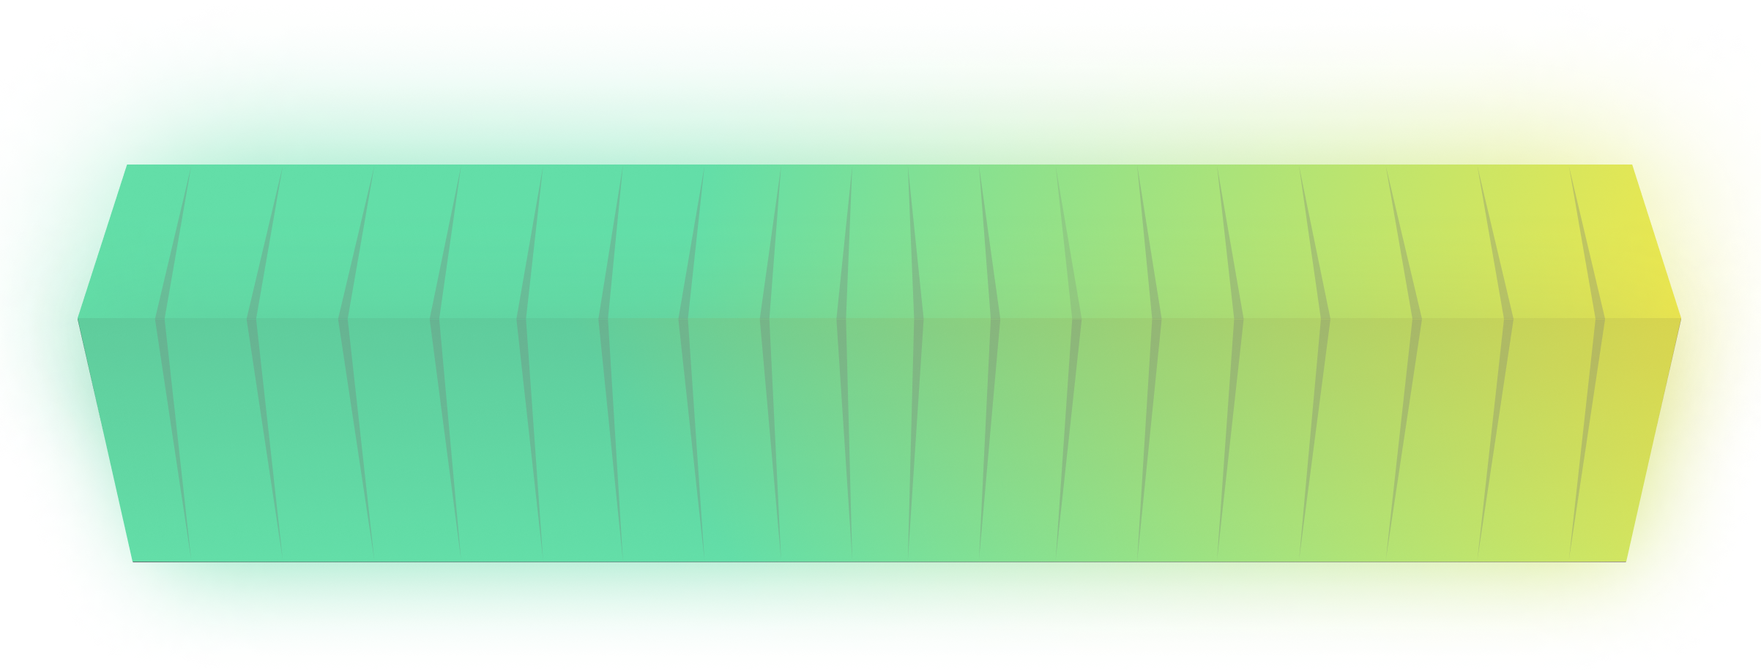
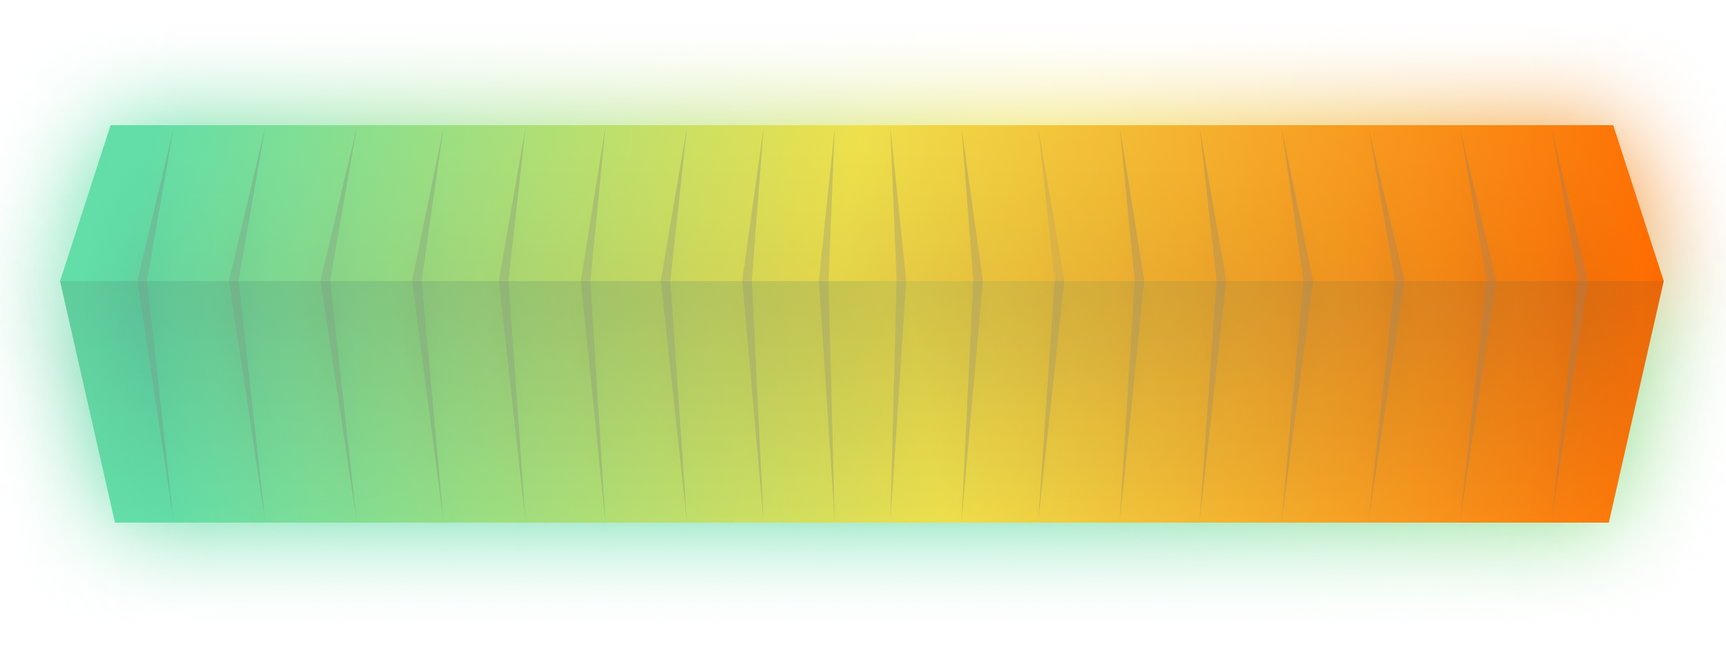
add menu btn and update progress bar

diff --git a/public/env.js b/public/env.js
@@ -1,67 +1,93 @@
 window.env = {
-  "MANPATH": "/opt/homebrew/share/man:/usr/share/man:/usr/local/share/man:/opt/homebrew/share/man::",
-  "TERM_PROGRAM": "vscode",
-  "NODE": "/usr/local/bin/node",
-  "INIT_CWD": "/Users/mykolaperebenesuk/Documents/Work/Frontend/cybersays-frontend",
-  "TERM": "xterm-256color",
-  "SHELL": "/bin/zsh",
-  "npm_config_metrics_registry": "https://registry.npmjs.org/",
-  "HOMEBREW_REPOSITORY": "/opt/homebrew",
-  "TMPDIR": "/var/folders/v6/pmrfgb2j3hv1wwgdkm8kz12r0000gn/T/",
-  "npm_config_global_prefix": "/usr/local",
-  "TERM_PROGRAM_VERSION": "1.82.2",
-  "ZDOTDIR": "/Users/mykolaperebenesuk",
-  "ORIGINAL_XDG_CURRENT_DESKTOP": "undefined",
-  "MallocNanoZone": "0",
+  "ACSetupSvcPort": "23210",
+  "ACSvcPort": "17532",
+  "ALLUSERSPROFILE": "C:\\ProgramData",
+  "APPDATA": "C:\\Users\\danie\\AppData\\Roaming",
+  "CHROME_CRASHPAD_PIPE_NAME": "\\\\.\\pipe\\crashpad_13504_TXQRPBMYUAOTFDAB",
   "COLOR": "1",
-  "npm_config_noproxy": "",
-  "npm_config_local_prefix": "/Users/mykolaperebenesuk/Documents/Work/Frontend/cybersays-frontend",
-  "USER": "mykolaperebenesuk",
-  "COMMAND_MODE": "unix2003",
-  "npm_config_globalconfig": "/usr/local/etc/npmrc",
-  "SSH_AUTH_SOCK": "/private/tmp/com.apple.launchd.UWBnfdlKjG/Listeners",
-  "__CF_USER_TEXT_ENCODING": "0x1F5:0x7:0x3E",
-  "npm_execpath": "/usr/local/lib/node_modules/npm/bin/npm-cli.js",
-  "PATH": "/Users/mykolaperebenesuk/Documents/Work/Frontend/cybersays-frontend/node_modules/.bin:/Users/mykolaperebenesuk/Documents/Work/Frontend/node_modules/.bin:/Users/mykolaperebenesuk/Documents/Work/node_modules/.bin:/Users/mykolaperebenesuk/Documents/node_modules/.bin:/Users/mykolaperebenesuk/node_modules/.bin:/Users/node_modules/.bin:/node_modules/.bin:/usr/local/lib/node_modules/npm/node_modules/@npmcli/run-script/lib/node-gyp-bin:/opt/homebrew/bin:/opt/homebrew/sbin:/usr/local/bin:/System/Cryptexes/App/usr/bin:/usr/bin:/bin:/usr/sbin:/sbin:/var/run/com.apple.security.cryptexd/codex.system/bootstrap/usr/local/bin:/var/run/com.apple.security.cryptexd/codex.system/bootstrap/usr/bin:/var/run/com.apple.security.cryptexd/codex.system/bootstrap/usr/appleinternal/bin:/Library/Apple/usr/bin:/opt/homebrew/bin:/opt/homebrew/sbin",
-  "npm_package_json": "/Users/mykolaperebenesuk/Documents/Work/Frontend/cybersays-frontend/package.json",
-  "_": "/Users/mykolaperebenesuk/Documents/Work/Frontend/cybersays-frontend/node_modules/.bin/react-dotenv",
-  "npm_config_userconfig": "/Users/mykolaperebenesuk/.npmrc",
-  "npm_config_init_module": "/Users/mykolaperebenesuk/.npm-init.js",
-  "USER_ZDOTDIR": "/Users/mykolaperebenesuk",
-  "__CFBundleIdentifier": "com.microsoft.VSCode",
-  "npm_command": "start",
-  "PWD": "/Users/mykolaperebenesuk/Documents/Work/Frontend/cybersays-frontend",
-  "npm_lifecycle_event": "start",
-  "EDITOR": "vi",
-  "npm_package_name": "cybersays-frontend",
-  "LANG": "en_US.UTF-8",
-  "npm_config_npm_version": "9.8.1",
-  "VSCODE_GIT_ASKPASS_EXTRA_ARGS": "--ms-enable-electron-run-as-node",
-  "XPC_FLAGS": "0x0",
-  "npm_config_node_gyp": "/usr/local/lib/node_modules/npm/node_modules/node-gyp/bin/node-gyp.js",
-  "npm_package_version": "0.1.0",
-  "XPC_SERVICE_NAME": "0",
-  "VSCODE_INJECTION": "1",
-  "SHLVL": "2",
-  "HOME": "/Users/mykolaperebenesuk",
-  "VSCODE_GIT_ASKPASS_MAIN": "/private/var/folders/v6/pmrfgb2j3hv1wwgdkm8kz12r0000gn/T/AppTranslocation/FD908547-6737-4C11-BF78-733CFE6EB2A4/d/Visual Studio Code.app/Contents/Resources/app/extensions/git/dist/askpass-main.js",
-  "HOMEBREW_PREFIX": "/opt/homebrew",
-  "npm_config_cache": "/Users/mykolaperebenesuk/.npm",
-  "LOGNAME": "mykolaperebenesuk",
-  "npm_lifecycle_script": "react-dotenv && react-scripts start",
-  "VSCODE_GIT_IPC_HANDLE": "/var/folders/v6/pmrfgb2j3hv1wwgdkm8kz12r0000gn/T/vscode-git-481a754d4d.sock",
-  "npm_config_user_agent": "npm/9.8.1 node/v18.18.2 darwin arm64 workspaces/false",
-  "VSCODE_GIT_ASKPASS_NODE": "/private/var/folders/v6/pmrfgb2j3hv1wwgdkm8kz12r0000gn/T/AppTranslocation/FD908547-6737-4C11-BF78-733CFE6EB2A4/d/Visual Studio Code.app/Contents/Frameworks/Code Helper (Plugin).app/Contents/MacOS/Code Helper (Plugin)",
-  "GIT_ASKPASS": "/private/var/folders/v6/pmrfgb2j3hv1wwgdkm8kz12r0000gn/T/AppTranslocation/FD908547-6737-4C11-BF78-733CFE6EB2A4/d/Visual Studio Code.app/Contents/Resources/app/extensions/git/dist/askpass.sh",
-  "INFOPATH": "/opt/homebrew/share/info:/opt/homebrew/share/info:",
-  "HOMEBREW_CELLAR": "/opt/homebrew/Cellar",
-  "npm_node_execpath": "/usr/local/bin/node",
-  "npm_config_prefix": "/usr/local",
   "COLORTERM": "truecolor",
+  "CommonProgramFiles": "C:\\Program Files\\Common Files",
+  "CommonProgramFiles(x86)": "C:\\Program Files (x86)\\Common Files",
+  "CommonProgramW6432": "C:\\Program Files\\Common Files",
+  "COMPUTERNAME": "DANICHOK",
+  "ComSpec": "C:\\WINDOWS\\system32\\cmd.exe",
+  "DriverData": "C:\\Windows\\System32\\Drivers\\DriverData",
+  "EDITOR": "C:\\WINDOWS\\notepad.exe",
+  "EFC_6472": "1",
+  "FPS_BROWSER_APP_PROFILE_STRING": "Internet Explorer",
+  "FPS_BROWSER_USER_PROFILE_STRING": "Default",
+  "GIT_ASKPASS": "c:\\Users\\danie\\AppData\\Local\\Programs\\Microsoft VS Code\\resources\\app\\extensions\\git\\dist\\askpass.sh",
+  "HOME": "C:\\Users\\danie",
+  "HOMEDRIVE": "C:",
+  "HOMEPATH": "\\Users\\danie",
+  "INIT_CWD": "J:\\React App\\Ron Folder\\cybersays",
+  "LANG": "en_US.UTF-8",
+  "LOCALAPPDATA": "C:\\Users\\danie\\AppData\\Local",
+  "LOGONSERVER": "\\\\DANICHOK",
+  "NODE": "C:\\Program Files\\nodejs\\node.exe",
+  "NODE_EXE": "C:\\Program Files\\nodejs\\\\node.exe",
+  "NPM_CLI_JS": "C:\\Program Files\\nodejs\\\\node_modules\\npm\\bin\\npm-cli.js",
+  "npm_command": "start",
+  "npm_config_cache": "C:\\Users\\danie\\AppData\\Local\\npm-cache",
+  "npm_config_globalconfig": "C:\\Users\\danie\\AppData\\Roaming\\npm\\etc\\npmrc",
+  "npm_config_global_prefix": "C:\\Users\\danie\\AppData\\Roaming\\npm",
+  "npm_config_init_module": "C:\\Users\\danie\\.npm-init.js",
+  "npm_config_local_prefix": "J:\\React App\\Ron Folder\\cybersays",
+  "npm_config_metrics_registry": "https://registry.npmjs.org/",
+  "npm_config_node_gyp": "C:\\Program Files\\nodejs\\node_modules\\npm\\node_modules\\node-gyp\\bin\\node-gyp.js",
+  "npm_config_noproxy": "",
+  "npm_config_prefix": "C:\\Users\\danie\\AppData\\Roaming\\npm",
+  "npm_config_userconfig": "C:\\Users\\danie\\.npmrc",
+  "npm_config_user_agent": "npm/9.5.1 node/v18.16.0 win32 x64 workspaces/false",
+  "npm_execpath": "C:\\Program Files\\nodejs\\node_modules\\npm\\bin\\npm-cli.js",
+  "npm_lifecycle_event": "start",
+  "npm_lifecycle_script": "react-dotenv && react-scripts start",
+  "npm_node_execpath": "C:\\Program Files\\nodejs\\node.exe",
+  "npm_package_json": "J:\\React App\\Ron Folder\\cybersays\\package.json",
+  "npm_package_name": "cybersays-frontend",
+  "npm_package_version": "0.1.0",
+  "NPM_PREFIX_NPM_CLI_JS": "C:\\Users\\danie\\AppData\\Roaming\\npm\\node_modules\\npm\\bin\\npm-cli.js",
+  "NUMBER_OF_PROCESSORS": "12",
+  "OneDrive": "C:\\Users\\danie\\OneDrive",
+  "ORIGINAL_XDG_CURRENT_DESKTOP": "undefined",
+  "OS": "Windows_NT",
+  "Path": "J:\\React App\\Ron Folder\\cybersays\\node_modules\\.bin;J:\\React App\\Ron Folder\\node_modules\\.bin;J:\\React App\\node_modules\\.bin;J:\\node_modules\\.bin;C:\\Program Files\\nodejs\\node_modules\\npm\\node_modules\\@npmcli\\run-script\\lib\\node-gyp-bin;C:\\ProgramData\\Oracle\\Java\\javapath;C:\\WINDOWS\\system32;C:\\WINDOWS;C:\\WINDOWS\\System32\\Wbem;C:\\WINDOWS\\System32\\WindowsPowerShell\\v1.0\\;C:\\WINDOWS\\System32\\OpenSSH\\;C:\\Program Files\\nodejs\\;C:\\Program Files\\NVIDIA Corporation\\NVIDIA NvDLISR;C:\\Program Files\\dotnet\\;C:\\Program Files\\Git\\cmd;C:\\Program Files (x86)\\NVIDIA Corporation\\PhysX\\Common;C:\\Users\\danie\\AppData\\Local\\Microsoft\\WindowsApps;C:\\Users\\danie\\AppData\\Local\\Programs\\Microsoft VS Code\\bin;C:\\Users\\danie\\AppData\\Roaming\\npm;C:\\Users\\danie\\AppData\\Local\\GitHubDesktop\\bin",
+  "PATHEXT": ".COM;.EXE;.BAT;.CMD;.VBS;.VBE;.JS;.JSE;.WSF;.WSH;.MSC;.CPL",
+  "PROCESSOR_ARCHITECTURE": "AMD64",
+  "PROCESSOR_IDENTIFIER": "Intel64 Family 6 Model 151 Stepping 2, GenuineIntel",
+  "PROCESSOR_LEVEL": "6",
+  "PROCESSOR_REVISION": "9702",
+  "ProgramData": "C:\\ProgramData",
+  "ProgramFiles": "C:\\Program Files",
+  "ProgramFiles(x86)": "C:\\Program Files (x86)",
+  "ProgramW6432": "C:\\Program Files",
+  "PROMPT": "$P$G",
+  "PSModulePath": "C:\\Users\\danie\\OneDrive\\Documents\\WindowsPowerShell\\Modules;C:\\Program Files\\WindowsPowerShell\\Modules;C:\\WINDOWS\\system32\\WindowsPowerShell\\v1.0\\Modules",
+  "PUBLIC": "C:\\Users\\Public",
+  "REACT_APP_API_URL": "https://146.59.14.103:3014",
+  "REACT_APP_FACEBOOK_APP_ID": "356492313416801",
+  "REACT_APP_GOOGLE_CLIENT_ID": "572517381232-l7cci9an60u4tmk5r4pnu4vc0jupu760.apps.googleusercontent.com",
   "REACT_APP_MIXPANEL_PROJECT_ID": "3161931",
   "REACT_APP_MIXPANEL_PROJECT_TOKEN": "89006de594136c4a791fc8e9286a3d46",
   "REACT_APP_RECAPTCHA_SITE_KEY": "6Le_Yh0pAAAAAG9vT8nZ84NAjpNub3B8QfHM5xGn",
-  "REACT_APP_GOOGLE_CLIENT_ID": "572517381232-l7cci9an60u4tmk5r4pnu4vc0jupu760.apps.googleusercontent.com",
-  "REACT_APP_FACEBOOK_APP_ID": "356492313416801",
-  "REACT_APP_API_URL": "http://localhost:3014"
+  "RlsSvcPort": "22112",
+  "SESSIONNAME": "Console",
+  "SystemDrive": "C:",
+  "SystemRoot": "C:\\WINDOWS",
+  "TEMP": "C:\\Users\\danie\\AppData\\Local\\Temp",
+  "TERM_PROGRAM": "vscode",
+  "TERM_PROGRAM_VERSION": "1.85.0",
+  "TMP": "C:\\Users\\danie\\AppData\\Local\\Temp",
+  "USERDOMAIN": "DANICHOK",
+  "USERDOMAIN_ROAMINGPROFILE": "DANICHOK",
+  "USERNAME": "danie",
+  "USERPROFILE": "C:\\Users\\danie",
+  "VSCODE_GIT_ASKPASS_EXTRA_ARGS": "--ms-enable-electron-run-as-node",
+  "VSCODE_GIT_ASKPASS_MAIN": "c:\\Users\\danie\\AppData\\Local\\Programs\\Microsoft VS Code\\resources\\app\\extensions\\git\\dist\\askpass-main.js",
+  "VSCODE_GIT_ASKPASS_NODE": "C:\\Users\\danie\\AppData\\Local\\Programs\\Microsoft VS Code\\Code.exe",
+  "VSCODE_GIT_IPC_HANDLE": "\\\\.\\pipe\\vscode-git-2e5d7a7d77-sock",
+  "VSCODE_INJECTION": "1",
+  "VSCODE_NONCE": "4656d779-cb50-415d-970e-bab59d3c2aa1",
+  "windir": "C:\\WINDOWS",
+  "ZES_ENABLE_SYSMAN": "1"
 };

diff --git a/src/Pages/Milestone/MileStoneHeader.jsx b/src/Pages/Milestone/MileStoneHeader.jsx
@@ -1,18 +1,23 @@
 import React from 'react'
 import logoCyber from '../../images/logoCyberYellow.png'
 import field from '../../images/fieldProfile.png'
+import menu from '../../images/menuOpenBtn.png'
 
 function MileStoneHeader({ userData, setPayModalOpen, setMenuOpen }) {
     return (
         <div>
             <div className=' gradient-milestoneHeader py-3 '>
-                <div className='flex items-center justify-center lg:justify-between max-w-[1170px] w-full m-auto px-3 '>
+                <div className='flex items-center justify-between max-w-[1170px] w-full m-auto px-3 '>
+                    <div>
+                        <img onClick={e => setMenuOpen(true)} className='w-[28px] h-[28px] cursor-pointer' src={menu} alt="menu" />
+                    </div>
                     <div>
                         <div className='flex items-center gap-3 justify-center '>
                             <img className=' w-[140px] lg:w-[200px] mb-[-5px]' src={logoCyber} alt="Image" />
                             <p className=' font-semibold text-[20px] lg:text-[32px] saira'>Just lost it's mind 😱</p>
                         </div>
-                        <div className='bg-white w-full h-[2px] mt-2 m-auto  max-w-[540px]'></div>
+                        <p className='underline saira  text-[14px] font-semibold text-white text-center duration-300 cursor-pointer mt-2' onClick={e => setPayModalOpen(true)}>Choose your way to get paid immediately</p>
+                        {/* <div className='bg-white w-full h-[2px] mt-2 m-auto  max-w-[540px]'></div>*/}
                     </div>
                     <div className=' relative my-3 lg:my-5 max-w-[340px] lg:max-w-[370px]  w-full hidden lg:block'>
                         <img className='w-full' src={field} alt="field" />
@@ -35,8 +40,7 @@ function MileStoneHeader({ userData, setPayModalOpen, setMenuOpen }) {
                                 </div>
                             </div>
                         </div>
-                        <p className='underline saira text-end text-[14px] font-semibold text-white mt-2 duration-300 cursor-pointer mr-4' onClick={e => setPayModalOpen(true)}>Choose your way to get paid immediately</p>
-                        <button className='bg-white text-black px-2 py-1 rounded-lg' onClick={e => setMenuOpen(true)}>Menu</button>
+
                     </div>
                 </div>
             </div>
@@ -44,24 +48,23 @@ function MileStoneHeader({ userData, setPayModalOpen, setMenuOpen }) {
                 <img className='w-full' src={field} alt="field" />
                 <div >
                     <div className=' lg:w-[unset] absolute top-[7px] lg:top-[9px] left-[70px] cursor-pointer flex'>
-                        <div className='w-[80px] leading-4 ml-1'>
-                            <p className='text-[16px]  text-[#1E1E1E] font-normal saira text-center '>💵</p>
-                            <p className='text-[12px]  text-[#1E1E1E] font-normal saira text-center '>USD Earned:</p>
-                            <p className='text-[12px]   text-[#1E1E1E] font-normal saira text-center '>25</p>
+                        <div className='w-[90px] leading-4 ml-1'>
+                            <p className='text-[16px]  text-[#1E1E1E] font-normal saira text-center mb-0.5'>💵</p>
+                            <p className='text-[14px]  text-[#1E1E1E] font-normal saira text-center mb-0.5'>USD Earned:</p>
+                            <p className='text-[14px]   text-[#1E1E1E] font-normal saira text-center '>{userData?.earned}</p>
                         </div>
-                        <div className='w-[80px] leading-4 ml-1'>
-                            <p className='text-[16px]  text-[#1E1E1E] font-normal saira text-center '>👬</p>
-                            <p className='text-[12px]   text-[#1E1E1E] font-normal saira text-center '>Refferals:</p>
-                            <p className='text-[12px]   text-[#1E1E1E] font-normal saira text-center '>25</p>
+                        <div className='w-[90px] leading-4 ml-1'>
+                            <p className='text-[16px]  text-[#1E1E1E] font-normal saira text-center mb-0.5'>👬</p>
+                            <p className='text-[14px]   text-[#1E1E1E] font-normal saira text-center mb-0.5'>Refferals:</p>
+                            <p className='text-[14px]   text-[#1E1E1E] font-normal saira text-center '>{userData?.refferals ? JSON.parse(userData?.refferals).length : 0}</p>
                         </div>
-                        <div className='w-[80px] leading-4 ml-1'>
-                            <p className='text-[16px]  text-[#1E1E1E] font-normal saira text-center '>🃏</p>
-                            <p className='text-[12px]   text-[#1E1E1E] font-normal saira text-center '>Raffle Tickets:</p>
-                            <p className='text-[12px]   text-[#1E1E1E] font-normal saira text-center '>25</p>
+                        <div className='w-[90px] leading-4 ml-1'>
+                            <p className='text-[16px]  text-[#1E1E1E] font-normal saira text-center mb-0.5'>🃏</p>
+                            <p className='text-[14px]   text-[#1E1E1E] font-normal saira text-center mb-0.5'>Raffle Tickets:</p>
+                            <p className='text-[14px]   text-[#1E1E1E] font-normal saira text-center '>{userData?.raffle_tickets}</p>
                         </div>
                     </div>
                 </div>
-                <p className='underline saira text-center text-[14px] font-semibold text-white mt-2 duration-300 cursor-pointer '>Choose your way to get paid immediately</p>
 
             </div>
         </div>

diff --git a/src/Components/Privacy.jsx b/src/Components/Privacy.jsx
@@ -1,0 +1,19 @@
+import React from 'react'
+import HeaderProfile from './HeaderProfile'
+
+function Privacy() {
+    return (
+        <div>
+            <HeaderProfile />
+            <h2 className='text-[#1E1E1E] text-[20px] lg:text-[30px] font-bold text-center my-4'>Privacy policy</h2>
+            <div className=' flex justify-center'>
+                <div className='mx-3 max-w-[1200px] w-full'>
+                    <p className='text-[#1E1E1E] text-[14px] lg:text-[20px] font-normal saira my-4'>Lorem ipsum dolor sit amet, consectetur adipiscing elit, sed do eiusmod tempor incididunt ut labore et dolore magna aliqua. Ut enim ad minim veniam, quis nostrud exercitation ullamco laboris nisi ut aliquip ex ea commodo consequat. Duis aute irure dolor in reprehenderit in voluptate velit esse cillum dolore eu fugiat nulla pariatur. Excepteur sint occaecat cupidatat non proident, sunt in culpa qui officia deserunt mollit anim id est laborum. Lorem ipsum dolor sit amet, consectetur adipiscing elit, sed do eiusmod tempor incididunt ut labore et dolore magna aliqua. Ut enim ad minim veniam, quis nostrud exercitation ullamco laboris nisi ut aliquip ex ea commodo consequat. Duis aute irure dolor in reprehenderit in voluptate velit esse cillum dolore eu fugiat nulla pariatur. Excepteur sint occaecat cupidatat non proident, sunt in culpa qui officia deserunt mollit anim id est laborum.Lorem ipsum dolor sit amet, consectetur adipiscing elit, sed do eiusmod tempor incididunt ut labore et dolore magna aliqua. Ut enim ad minim veniam, quis nostrud exercitation ullamco laboris nisi ut aliquip ex ea commodo consequat. Duis aute irure dolor in reprehenderit in voluptate velit esse cillum dolore eu fugiat nulla pariatur. Excepteur sint occaecat cupidatat non proident, sunt in culpa qui officia deserunt mollit anim id est laborum.Lorem ipsum dolor sit amet, consectetur adipiscing elit, sed do eiusmod tempor incididunt ut labore et dolore magna aliqua. Ut enim ad minim veniam, quis nostrud exercitation ullamco laboris nisi ut aliquip ex ea commodo consequat. Duis aute irure dolor in reprehenderit in voluptate velit esse cillum dolore eu fugiat nulla pariatur. Excepteur sint occaecat cupidatat non proident, sunt in culpa qui officia deserunt mollit anim id est laborum.Lorem ipsum dolor sit amet, consectetur adipiscing elit, sed do eiusmod tempor incididunt ut labore et dolore magna aliqua. Ut enim ad minim veniam, quis nostrud exercitation ullamco laboris nisi ut aliquip ex ea commodo consequat. Duis aute irure dolor in reprehenderit in voluptate velit esse cillum dolore eu fugiat nulla pariatur. Excepteur sint occaecat cupidatat non proident, sunt in culpa qui officia deserunt mollit anim id est laborum</p>
+                </div>
+            </div>
+            <div className='gradient-line w-full h-[2px] my-6 m-auto  max-w-[340px]'></div>
+        </div>
+    )
+}
+
+export default Privacy

diff --git a/src/Components/Terms.jsx b/src/Components/Terms.jsx
@@ -1,0 +1,19 @@
+import React from 'react'
+import HeaderProfile from './HeaderProfile'
+
+function Terms() {
+    return (
+        <div>
+            <HeaderProfile />
+            <h2 className='text-[#1E1E1E] text-[20px] lg:text-[30px] font-bold text-center my-4'>Terms of use</h2>
+            <div className=' flex justify-center'>
+                <div className='mx-3 max-w-[1200px] w-full'>
+                    <p className='text-[#1E1E1E] text-[14px] lg:text-[20px] font-normal saira my-4'>Lorem ipsum dolor sit amet, consectetur adipiscing elit, sed do eiusmod tempor incididunt ut labore et dolore magna aliqua. Ut enim ad minim veniam, quis nostrud exercitation ullamco laboris nisi ut aliquip ex ea commodo consequat. Duis aute irure dolor in reprehenderit in voluptate velit esse cillum dolore eu fugiat nulla pariatur. Excepteur sint occaecat cupidatat non proident, sunt in culpa qui officia deserunt mollit anim id est laborum. Lorem ipsum dolor sit amet, consectetur adipiscing elit, sed do eiusmod tempor incididunt ut labore et dolore magna aliqua. Ut enim ad minim veniam, quis nostrud exercitation ullamco laboris nisi ut aliquip ex ea commodo consequat. Duis aute irure dolor in reprehenderit in voluptate velit esse cillum dolore eu fugiat nulla pariatur. Excepteur sint occaecat cupidatat non proident, sunt in culpa qui officia deserunt mollit anim id est laborum.Lorem ipsum dolor sit amet, consectetur adipiscing elit, sed do eiusmod tempor incididunt ut labore et dolore magna aliqua. Ut enim ad minim veniam, quis nostrud exercitation ullamco laboris nisi ut aliquip ex ea commodo consequat. Duis aute irure dolor in reprehenderit in voluptate velit esse cillum dolore eu fugiat nulla pariatur. Excepteur sint occaecat cupidatat non proident, sunt in culpa qui officia deserunt mollit anim id est laborum.Lorem ipsum dolor sit amet, consectetur adipiscing elit, sed do eiusmod tempor incididunt ut labore et dolore magna aliqua. Ut enim ad minim veniam, quis nostrud exercitation ullamco laboris nisi ut aliquip ex ea commodo consequat. Duis aute irure dolor in reprehenderit in voluptate velit esse cillum dolore eu fugiat nulla pariatur. Excepteur sint occaecat cupidatat non proident, sunt in culpa qui officia deserunt mollit anim id est laborum.Lorem ipsum dolor sit amet, consectetur adipiscing elit, sed do eiusmod tempor incididunt ut labore et dolore magna aliqua. Ut enim ad minim veniam, quis nostrud exercitation ullamco laboris nisi ut aliquip ex ea commodo consequat. Duis aute irure dolor in reprehenderit in voluptate velit esse cillum dolore eu fugiat nulla pariatur. Excepteur sint occaecat cupidatat non proident, sunt in culpa qui officia deserunt mollit anim id est laborum</p>
+                </div>
+            </div>
+            <div className='gradient-line w-full h-[2px] my-6 m-auto  max-w-[340px]'></div>
+        </div>
+    )
+}
+
+export default Terms

diff --git a/src/Components/FormDeleteConfirm.jsx b/src/Components/FormDeleteConfirm.jsx
@@ -1,0 +1,57 @@
+import React, { useState } from 'react';
+import HeaderProfile from './HeaderProfile'
+
+function FormDeleteConfirm() {
+
+    const [username, setUsername] = useState('');
+    const [email, setEmail] = useState('');
+    const [error, setError] = useState(false);
+
+    const inputClass = 'w-full p-4 saira border-[1px] border-[#1E1E1E] rounded-[12px] text-[#1E1E1E] outline-none';
+    const errorInputClass = 'border-1 border-red-500 ' + inputClass;
+
+    const handleApply = (e) => {
+        e.preventDefault();
+        if (!email || !username) {
+            setError(true);
+        } else {
+            setError(false);
+        }
+    }
+
+    return (
+        <div>
+            <HeaderProfile />
+            <h2 className='text-[#1E1E1E] text-[20px] lg:text-[30px] font-bold text-center my-4'>MY ACCOUNT</h2>
+            <div className='max-w-[345px] m-auto'>
+                <p className='text-[16px] saira font-semibold text-[#1E1E1E] '>Personal information</p>
+                <div>
+                    <p className='text-[12px] saira font-normal text-[#1E1E1E] my-1'>User name</p>
+                    <input
+                        onChange={e => setUsername(e.target.value)}
+                        value={username}
+                        className={`${error ? errorInputClass : inputClass}`}
+                        type="username"
+                        placeholder='Enter your user name' />
+                </div>
+                <div>
+                    <p className='text-[12px] saira font-normal text-[#1E1E1E] my-1'>E-mail</p>
+                    <input
+                        className={`${error ? errorInputClass : inputClass}`}
+                        onChange={e => setEmail(e.target.value)}
+                        value={email}
+                        type="email"
+                        placeholder='Enter your E-mail' />
+                </div>
+                <button onClick={handleApply} className='gradient-milestoneHeader w-full h-[52px] text-[16px] font-semibold rounded-[12px] saira mt-5 duration-200 disabled:opacity-80 cursor-pointer' >
+                    Apply changes
+                </button>
+                <p className='text-[#FF4B60] font-semibold text-[16px] saira flex items-center cursor-pointer justify-center mt-5'>
+                    Delete account
+                </p>
+            </div>
+        </div>
+    )
+}
+
+export default FormDeleteConfirm

diff --git a/src/Components/ProgressBar.jsx b/src/Components/ProgressBar.jsx
@@ -21,15 +21,15 @@ function ProgressBar() {
         <div className='px-5 lg:px-11 md:mt-14'>
             <h2 className='text-white text-[24px] font-bold text-center my-5'>3 milestones:</h2>
             <div className='gradient-milestone2 max-w-[770px] xl:w-full p-2 pb-0 lg:p-5 lg:pb-0 m-auto rounded-[16px] '>
-                <div className=' relative w-[320px] m-auto md:w-[730px]'>
-                    <div className={` absolute top-[-30px] md:top-[22px]  ${pointState === 0 ? 'left-[-13px] md:left-[-18px] !top-[-22px] md:!top-[32px]' :
-                        pointState === 1 ? 'left-[83px] md:left-[203px]' :
-                            pointState === 2 ? 'right-[95px] md:right-[227px]' :
-                                pointState === 3 ? 'right-[-12px] md:right-[-18px] md:!top-[18px]' :
+                <div className=' relative w-[320px] m-auto md:w-[730px] mt-5'>
+                    <div className={` absolute top-[-37px] lg:top-[-6px]   ${pointState === 0 ? 'left-[13px] md:left-[8px] ' :
+                        pointState === 1 ? 'left-[77px] md:left-[205px]' :
+                            pointState === 2 ? 'right-[85px] md:right-[220px]' :
+                                pointState === 3 ? 'right-[12px] md:right-[10px] ' :
                                     'hidden'
                         }`}>
-                        <div className=' !bg-white py-1 px-1 md:px-3 rounded-xl '><p className='text-gradient saira text-[12px] md:text-[14px] font-semibold w-[50px] md:w-[unset] text-center'>You are here</p></div>
-                        <hr className='w-[1px] h-[30px] md:h-[70px] border-dashed border-[1px] border-white m-auto mt-1 ' />
+                        <div className=' !bg-white py-1 px-1 md:px-3 rounded-[16px] '><p className='text-gradient saira text-[12px] md:text-[14px] font-semibold w-[50px]  text-center'>You are here</p></div>
+                        <hr className='w-[1px] h-[30px] md:h-[60px] border-dashed border-[1px] border-white m-auto mt-1 ' />
                         <div className=' w-[12px] h-[12px] gradient-line border-[1px] border-white m-auto mt-1'></div>
                     </div>
 

diff --git a/src/Components/MenuModal.jsx b/src/Components/MenuModal.jsx
@@ -17,9 +17,11 @@ function MenuModal({ setModalOpen, setDeleteOpen }) {
                     <img onClick={() => setModalOpen(false)} className='w-[34px] cursor-pointer' src={close} alt="close" />
                 </div>
                 <div className='w-full'>
+                    {/*
                     <Link to='/profile' onClick={() => setModalOpen(false)} className='text-white font-semibold text-[24px] saira flex items-center cursor-pointer justify-center'>
                         <img className='w-[24px] mr-2' src={myAccount} alt="myAccount" />My account
                     </Link>
+                    */}
                     <Link to='/login' onClick={() => {
                         localStorage.removeItem('token')
                         setModalOpen(false)

diff --git a/src/Pages/Homepage.jsx b/src/Pages/Homepage.jsx
@@ -25,7 +25,7 @@ function Homepage({ languageData, setMenuOpen }) {
   })
 
   return (
-    <div className='bg-milestone'>
+    <div className='bg-milestone pb-10'>
       <MileStoneHeader userData={userData} setPayModalOpen={setPayModalOpen} setMenuOpen={setMenuOpen} />
       <ProgressBar userData={userData} />
       <Milestone1 userData={userData} languageData={languageData} imLiveURL={imLiveURL} />
